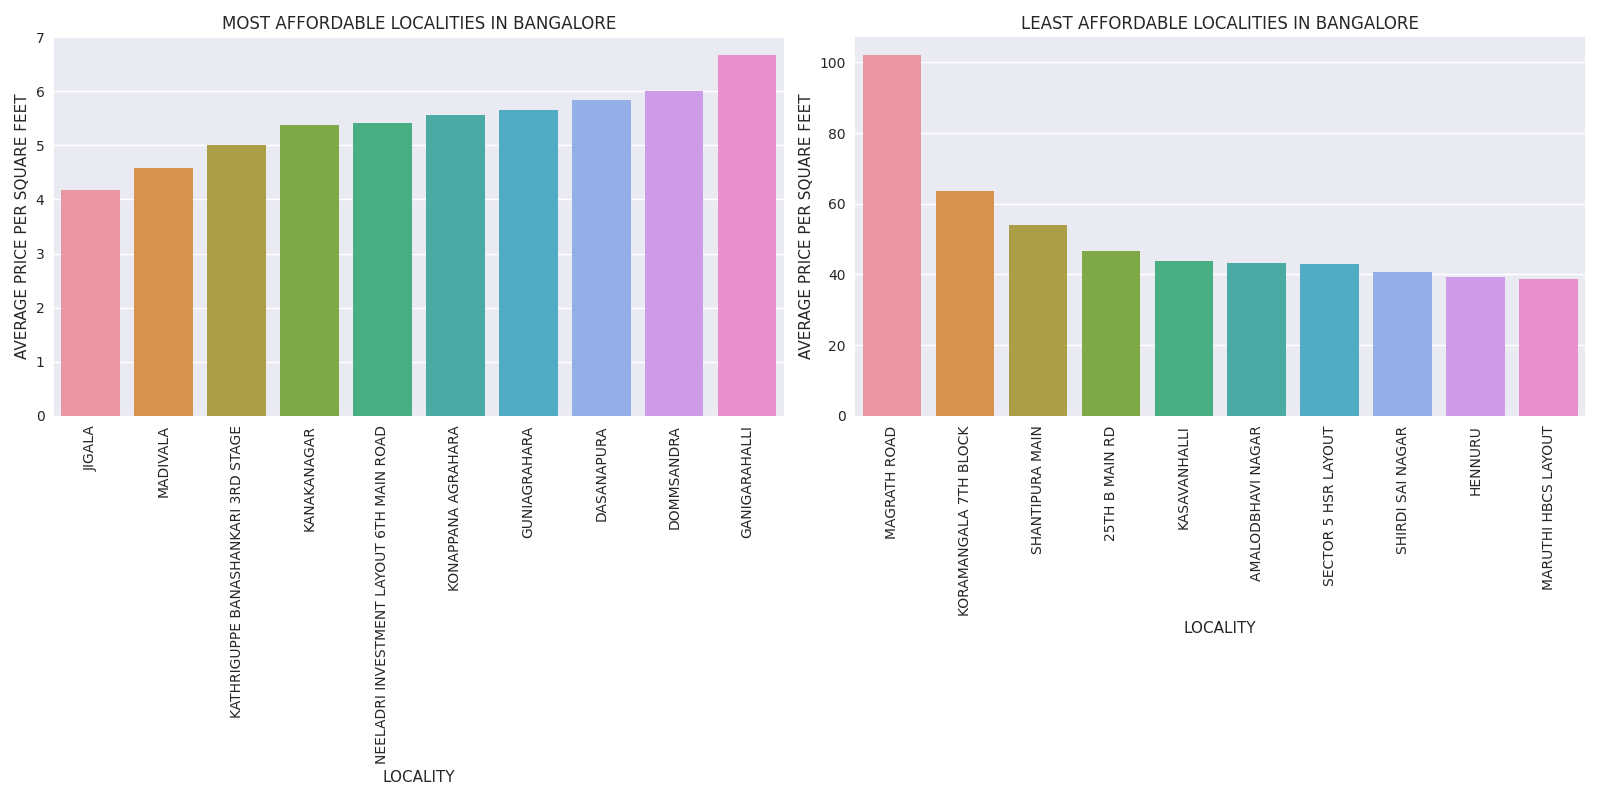
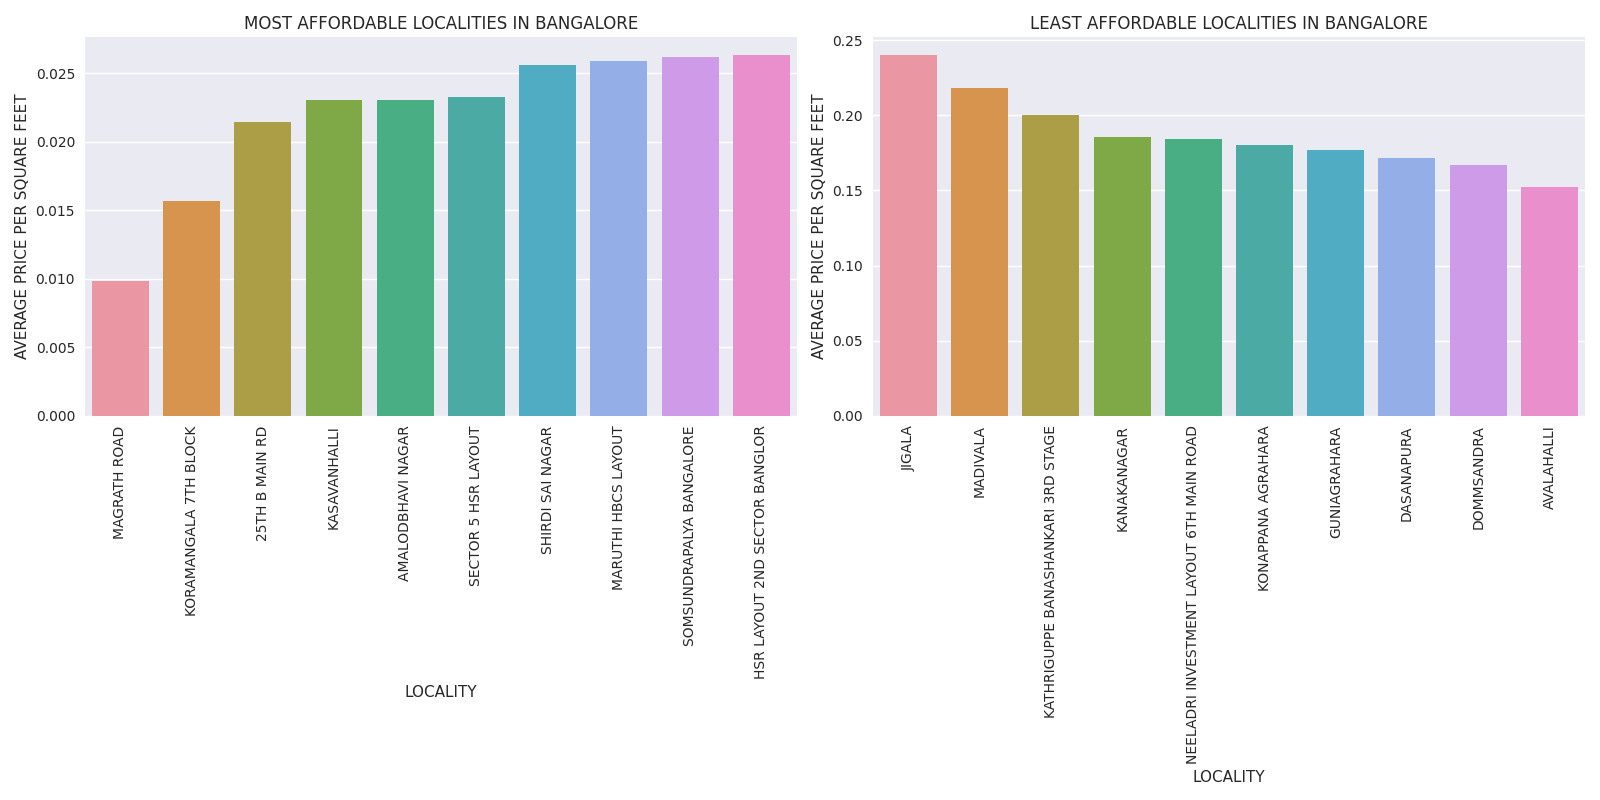
Fix the affordability column in combine.py

diff --git a/combine.py b/combine.py
@@ -144,7 +144,7 @@ preprocess(df_dict)
 # EDA 
 for city, df in clean_df_dict.items():
     df['CITY'] = city
-    df['AFFORDABILITY'] = df['PRICE']/df['AREA']
+    df['AFFORDABILITY'] = df['AREA']/df['PRICE']
 
 combined = pd.concat([clean_df_dict[city] for city in CITIES])
 
